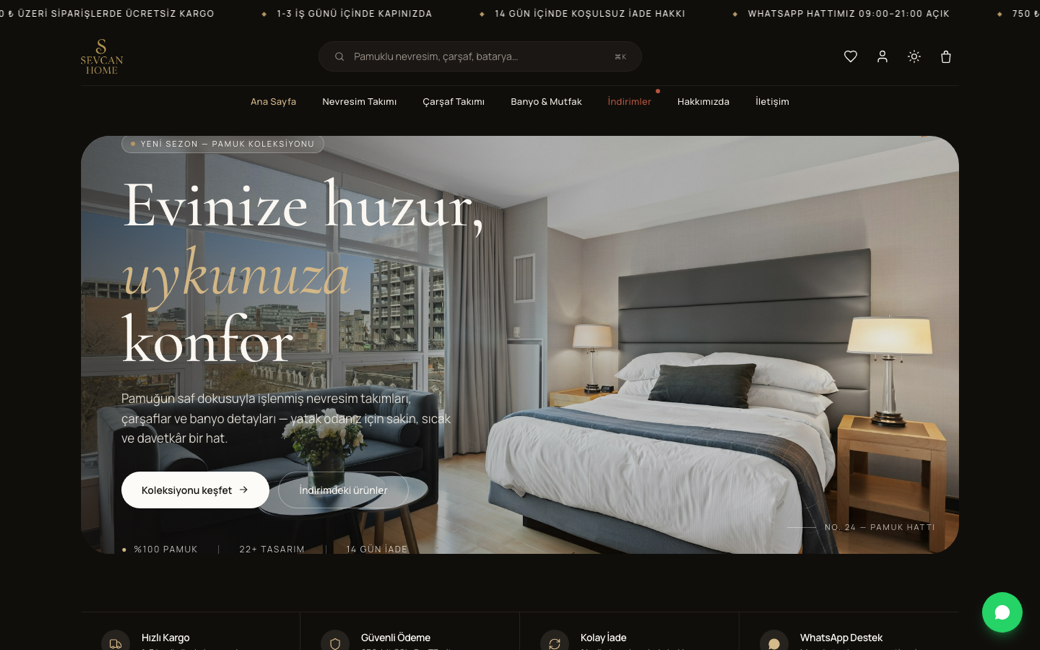
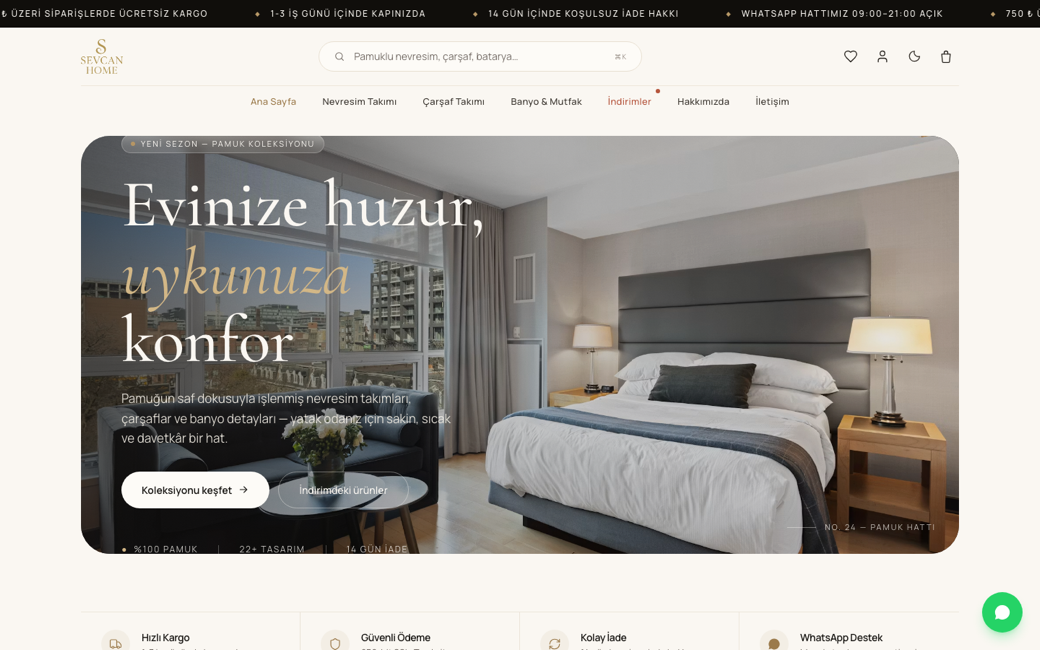
Site önizlemelerini temaya göre eşle, Tomar logosunu ortala
Site ekran görüntüleri tek bir koyu tema yakalamasıydı; açık temada yabancı
duruyordu. Artık uygulama maketlerindeki .phone-img düzeniyle aynı şekilde
açık/koyu çift olarak geliyor:

- mevcut koyu yakalamalar *-preview-dark.png olarak yeniden adlandırıldı
- açık tema yakalamaları eklendi (1440x900'den 1040x650'ye küçültüldü, böylece
  çerçeveleme koyu sürümlerle birebir aynı)
- .site-img için .is-light/.is-dark takas kuralları eklendi
- dört yerde tekrar eden önizleme bloğu SitePreview bileşenine alındı

Ayrıca: preview-card kendi grid satırındaki en uzun hücreye göre uzadığı için
kısa bir görsel (Tomar simgesi) kartın tepesine yapışık kalıyordu.
preview-card-inner artık kartı dolduruyor ve görsel otomatik blok
kenar boşluklarıyla ortalanıyor; başlık altta kalıyor.

diff --git a/app/sites-content.tsx b/app/sites-content.tsx
@@ -101,6 +101,56 @@ const mgumrahCopy = {
   }
 };
 
+/**
+ * Site screenshots ship as a light/dark pair — `<base>.png` and
+ * `<base>-dark.png` — and CSS shows whichever matches the active theme, the
+ * same way .phone-img works for the app mockups. Shared by the index and both
+ * detail pages so the pairing lives in one place.
+ */
+function SitePreview({
+  base,
+  alt,
+  label,
+  meta,
+  style
+}: {
+  base: string;
+  alt: string;
+  label: string;
+  meta: string;
+  style?: React.CSSProperties;
+}) {
+  return (
+    <aside className="preview-card" aria-hidden="true" style={style}>
+      <div className="grid-bg" />
+      <div className="preview-card-inner">
+        <img
+          className="site-img is-light"
+          src={`${base}.png`}
+          alt={alt}
+          width={1040}
+          height={650}
+          loading="lazy"
+          decoding="async"
+        />
+        <img
+          className="site-img is-dark"
+          src={`${base}-dark.png`}
+          alt={alt}
+          width={1040}
+          height={650}
+          loading="lazy"
+          decoding="async"
+        />
+        <div className="preview-meta">
+          <span>{label}</span>
+          <span>{meta}</span>
+        </div>
+      </div>
+    </aside>
+  );
+}
+
 export function SitesIndex({ locale }: { locale: Locale }) {
   const t = copy[locale];
   const mt = mgumrahCopy[locale];
@@ -144,24 +194,12 @@ export function SitesIndex({ locale }: { locale: Locale }) {
           </div>
         </article>
 
-        <aside className="preview-card" aria-hidden="true">
-          <div className="grid-bg" />
-          <div className="preview-card-inner">
-            <img
-              className="site-img"
-              src="/images/sevcanhome-preview.png"
-              alt={t.previewAlt}
-              width={1040}
-              height={650}
-              loading="lazy"
-              decoding="async"
-            />
-            <div className="preview-meta">
-              <span>{t.previewLabel}</span>
-              <span>{t.previewPlatforms}</span>
-            </div>
-          </div>
-        </aside>
+        <SitePreview
+          base="/images/sevcanhome-preview"
+          alt={t.previewAlt}
+          label={t.previewLabel}
+          meta={t.previewPlatforms}
+        />
       </section>
 
       <section
@@ -195,24 +233,12 @@ export function SitesIndex({ locale }: { locale: Locale }) {
           </div>
         </article>
 
-        <aside className="preview-card" aria-hidden="true">
-          <div className="grid-bg" />
-          <div className="preview-card-inner">
-            <img
-              className="site-img"
-              src="/images/mgumrah-preview.png"
-              alt={locale === "tr" ? "mgumrah.com sitesi — anasayfa önizleme" : "mgumrah.com website — homepage preview"}
-              width={1040}
-              height={650}
-              loading="lazy"
-              decoding="async"
-            />
-            <div className="preview-meta">
-              <span>{t.previewLabel}</span>
-              <span>mgumrah.com</span>
-            </div>
-          </div>
-        </aside>
+        <SitePreview
+          base="/images/mgumrah-preview"
+          alt={locale === "tr" ? "mgumrah.com sitesi — anasayfa önizleme" : "mgumrah.com website — homepage preview"}
+          label={t.previewLabel}
+          meta="mgumrah.com"
+        />
       </section>
     </main>
   );
@@ -272,24 +298,13 @@ export function SevcanHomeDetail({ locale }: { locale: Locale }) {
           </div>
         </div>
 
-        <aside className="preview-card" aria-hidden="true" style={{ marginTop: "1.5rem" }}>
-          <div className="grid-bg" />
-          <div className="preview-card-inner">
-            <img
-              className="site-img"
-              src="/images/sevcanhome-preview.png"
-              alt={t.previewAlt}
-              width={1040}
-              height={650}
-              loading="lazy"
-              decoding="async"
-            />
-            <div className="preview-meta">
-              <span>{t.previewLabel}</span>
-              <span>{t.previewPlatforms}</span>
-            </div>
-          </div>
-        </aside>
+        <SitePreview
+          base="/images/sevcanhome-preview"
+          alt={t.previewAlt}
+          label={t.previewLabel}
+          meta={t.previewPlatforms}
+          style={{ marginTop: "1.5rem" }}
+        />
       </section>
     </main>
   );
@@ -350,24 +365,12 @@ export function MgumrahDetail({ locale }: { locale: Locale }) {
           </div>
         </div>
 
-        <aside className="preview-card" aria-hidden="true" style={{ marginTop: "1.5rem" }}>
-          <div className="grid-bg" />
-          <div className="preview-card-inner">
-            <img
-              className="site-img"
-              src="/images/mgumrah-preview.png"
-              alt={locale === "tr" ? "mgumrah.com sitesi — anasayfa önizleme" : "mgumrah.com website — homepage preview"}
-              width={1040}
-              height={650}
-              loading="lazy"
-              decoding="async"
-            />
-            <div className="preview-meta">
-              <span>{t.previewLabel}</span>
-              <span>mgumrah.com</span>
-            </div>
-          </div>
-        </aside>
+        <SitePreview
+          base="/images/mgumrah-preview"
+          alt={locale === "tr" ? "mgumrah.com sitesi — anasayfa önizleme" : "mgumrah.com website — homepage preview"}
+          label={t.previewLabel}
+          meta="mgumrah.com"
+        />
       </section>
     </main>
   );

diff --git a/app/globals.css b/app/globals.css
@@ -620,7 +620,15 @@ a { color: inherit; text-decoration: none; }
   flex-direction: column;
   align-items: center;
   gap: 1rem;
+  /* Fill the card, which stretches to the tallest cell in its grid row. */
+  flex: 1 0 auto;
 }
+
+/* Without this a short image (the Tomar icon) sits pinned to the top of a card
+   that was stretched by its taller neighbour. Auto block margins split the
+   leftover space above and below it, so the artwork centres while the caption
+   stays put at the bottom. */
+.preview-card-inner > img { margin-block: auto; }
 .phone-img {
   /* ceiling was 320px at a 1180px shell; hard-stopped at 420 because the
      source is 720px wide and shouldn't be upscaled past ~1.7x. */
@@ -645,6 +653,15 @@ a { color: inherit; text-decoration: none; }
   border-radius: calc(var(--radius) - 0.5rem);
   border: 1px solid var(--line);
   filter: drop-shadow(0 24px 48px rgba(20, 8, 0, 0.18));
+}
+/* Screenshots are captured twice, once per theme — a dark capture vanishes on
+   a dark card and a light one glares. Same swap the phone mockups use above. */
+.site-img.is-dark { display: none; }
+:root[data-theme="dark"] .site-img.is-light { display: none; }
+:root[data-theme="dark"] .site-img.is-dark { display: block; }
+@media (prefers-color-scheme: dark) {
+  :root:not([data-theme="light"]) .site-img.is-light { display: none; }
+  :root:not([data-theme="light"]) .site-img.is-dark { display: block; }
 }
 .preview-meta {
   display: flex;
